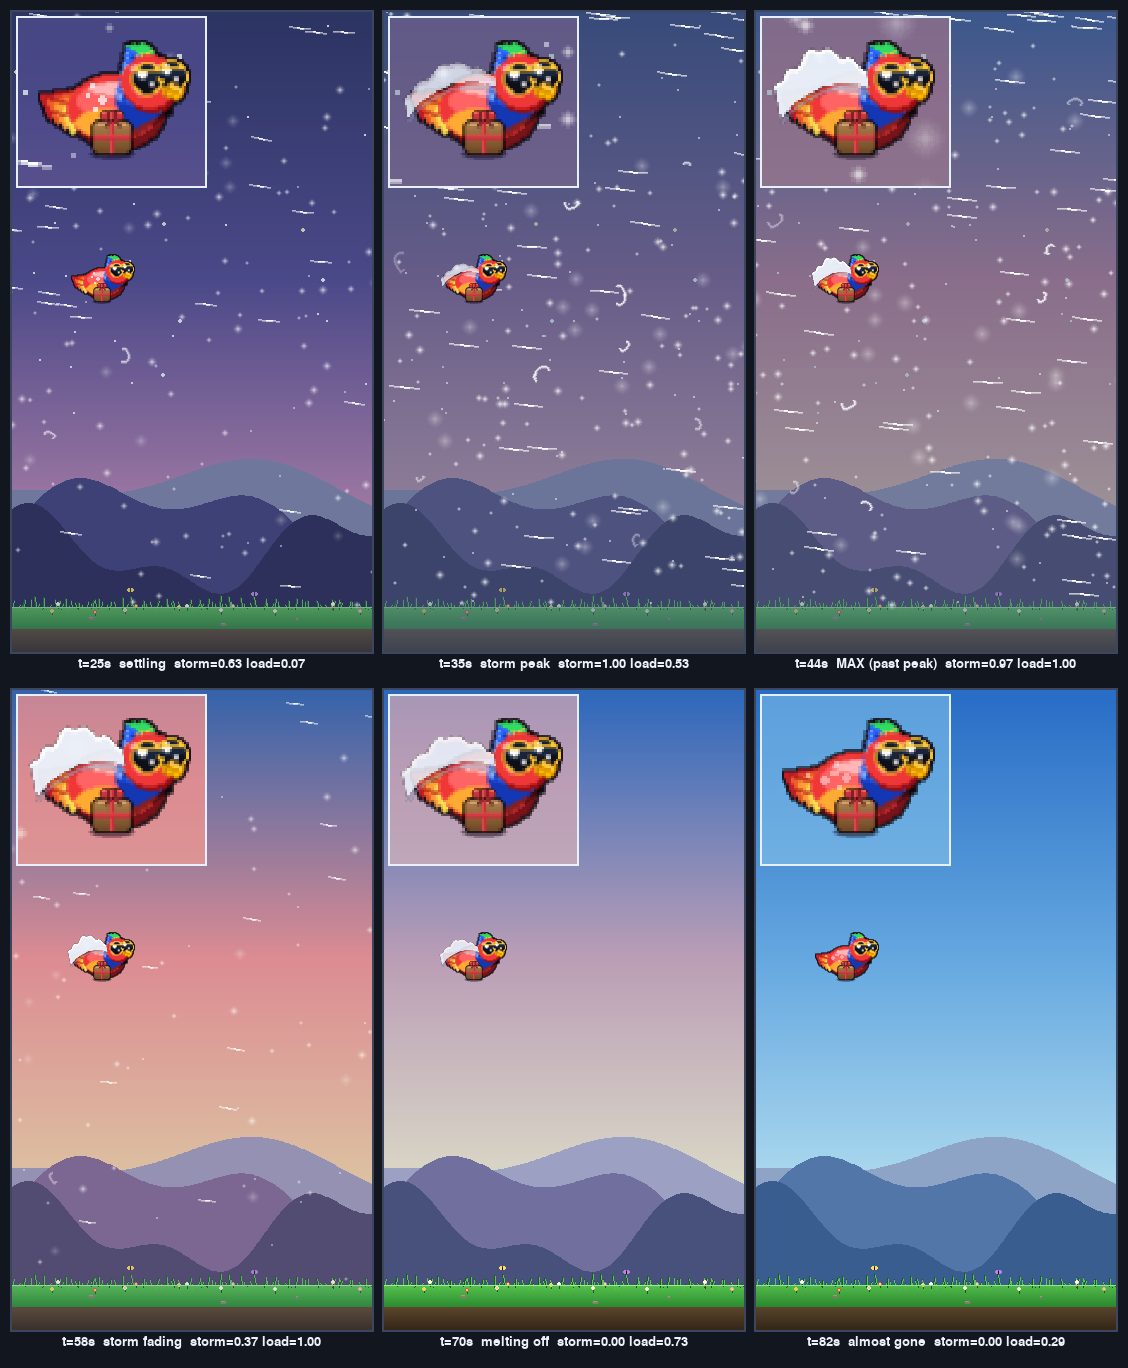
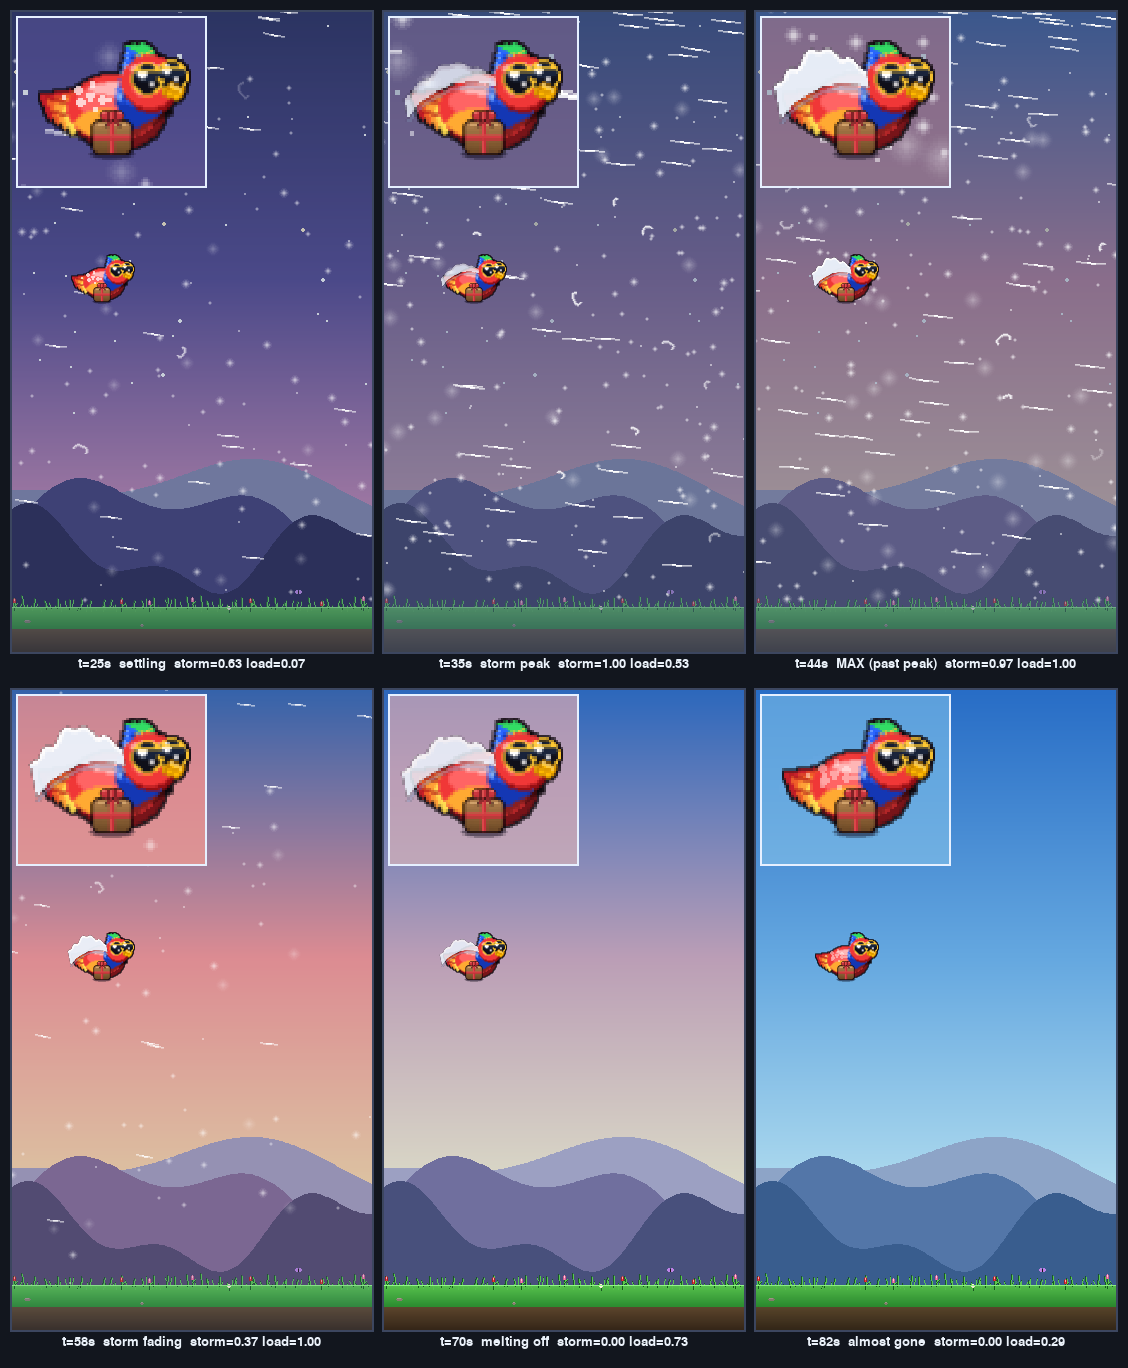
snow on back: denser scattered flakes at storm start
Feedback: the start-of-storm settle was too sparse (~4 flakes).
Bumped the speck count (n = 10 + load*18, was 4 + load*12) so the
early dusting reads as a fuller scatter of snowflakes across his
rear while still tapering in from a few. R2 2D scatter + the
accumulate/melt behaviour unchanged.

Buildup sheet regenerated. Tests: 22/22.

diff --git a/game/entities.py b/game/entities.py
@@ -350,7 +350,7 @@ def _draw_snow_cap(surf, cx, cy, load, scale=1.0, tilt=0.0):
     # the R2 low-discrepancy sequence for even, organic-looking 2D
     # coverage; deterministic so they never shimmer.
     if speck_w > 0.01:
-        n = int(4 + load * 12)
+        n = int(10 + load * 18)
         a = int(min(240, 180 + load * 60) * speck_w)
         if a > 8 and n > 0:
             # Scatter flakes uniformly across an ELLIPSE over Pip's
